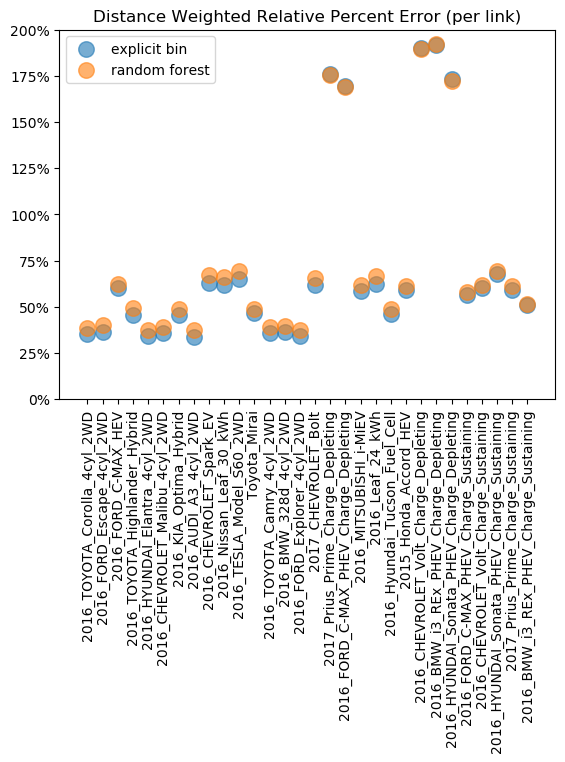
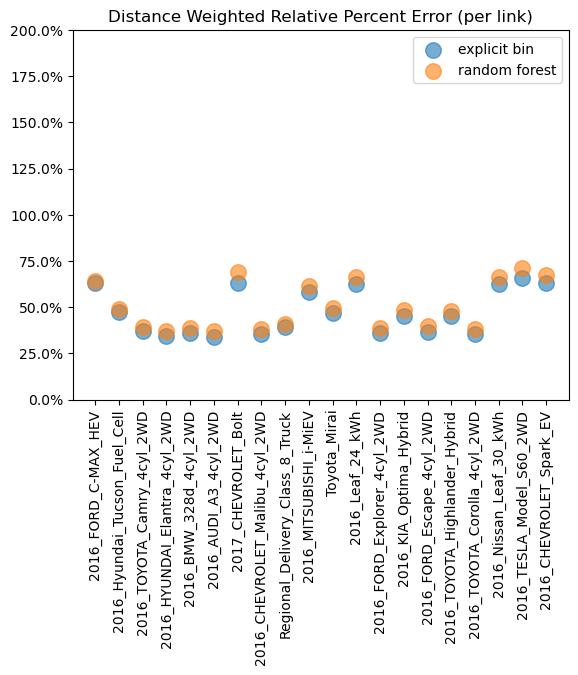
updated model_trainer and model_check for new batch training workflow

Changed region(s): [[0.0, 0.0, 0.9929, 0.9956]]

diff --git a/scripts/model_check.py b/scripts/model_check.py
@@ -5,56 +5,16 @@ import numpy as np
 import os
 import matplotlib.pyplot as plt
 
-import routee
+from powertrain.core.model import Model
+from pathlib import Path
 
-PATH_to_models = "../routee/trained_models/"
+PATH_to_models = "/projects/mbap/data/routee_results/2020_11_9/"
+PATH_to_models = Path(PATH_to_models)
 
+eb_model_list = [x for x in os.listdir(PATH_to_models) if x.endswith('ExplicitBin.json')]
+rf_model_list = [x for x in os.listdir(PATH_to_models) if x.endswith('RandomForest.json')]
 
-EV = [
-    '2016_CHEVROLET_Spark_EV',
-    '2016_MITSUBISHI_i-MiEV',
-    '2016_Nissan_Leaf_24_kWh',
-    '2016_Nissan_Leaf_30_kWh',
-    '2016_TESLA_Model_S60_2WD',
-    '2017_CHEVROLET_Bolt',
-]
-
-PHEV_CD = [
-    '2016_BMW_i3_REx_PHEV_Charge_Depleting',
-    '2016_CHEVROLET_Volt_Charge_Depleting',
-    '2016_FORD_C-MAX_PHEV_Charge_Depleting',
-    '2016_HYUNDAI_Sonata_PHEV_Charge_Depleting',
-    '2017_Prius_Prime_Charge_Depleting',
-]
-
-HEV = [
-    '2016_BMW_i3_REx_PHEV_Charge_Sustaining',
-    '2016_CHEVROLET_Volt_Charge_Sustaining',
-    '2016_FORD_C-MAX_PHEV_Charge_Sustaining',
-    '2016_HYUNDAI_Sonata_PHEV_Charge_Sustaining',
-    '2017_Prius_Prime_Charge_Sustaining',
-    '2015_Honda_Accord_HEV',
-    '2016_FORD_C-MAX_HEV',
-    '2016_KIA_Optima_Hybrid',
-    '2016_TOYOTA_Highlander_Hybrid',
-]
-
-CV = [
-    '2016_AUDI_A3_4cyl_2WD',
-    '2016_BMW_328d_4cyl_2WD',
-    '2016_CHEVROLET_Malibu_4cyl_2WD',
-    '2016_FORD_Escape_4cyl_2WD',
-    '2016_FORD_Explorer_4cyl_2WD',
-    '2016_HYUNDAI_Elantra_4cyl_2WD',
-    '2016_TOYOTA_Camry_4cyl_2WD',
-    '2016_TOYOTA_Corolla_4cyl_2WD'
-]
-
-
-eb_model_list = [x for x in os.listdir(PATH_to_models) if x.endswith('Explicit_Bin.pickle')]
-rf_model_list = [x for x in os.listdir(PATH_to_models) if x.endswith('Random_Forest.pickle')]
-
-root_list = [x.split('_Explicit_Bin')[0] for x in eb_model_list]
+root_list = [x.split('_ExplicitBin')[0] for x in eb_model_list]
 
 eb_model_error_dwrpe = []
 rf_model_error_dwrpe = []
@@ -63,13 +23,15 @@ eb_model_error_net = []
 rf_model_error_net = []
 
 for basename_i in root_list:
-    eb_model = routee.read_model(PATH_to_models+basename_i+'_Explicit_Bin.pickle')
-    eb_model_error_dwrpe.append(eb_model.errors['distance_weighted_relative_percent_difference'])
-    eb_model_error_net.append(eb_model.errors['net_error'])
+    json_file = PATH_to_models.joinpath(basename_i+'_ExplicitBin.json')
+    eb_model = Model.from_json(json_file)
+    eb_model_error_dwrpe.append(eb_model.metadata['errors']['distance_weighted_relative_percent_difference'])
+    eb_model_error_net.append(eb_model.metadata['errors']['net_error'])
     
-    rf_model = routee.read_model(PATH_to_models+basename_i+'_Random_Forest.pickle')
-    rf_model_error_dwrpe.append(rf_model.errors['distance_weighted_relative_percent_difference'])
-    rf_model_error_net.append(rf_model.errors['net_error'])
+    json_file = PATH_to_models.joinpath(basename_i+'_RandomForest.json')
+    rf_model = Model.from_json(json_file)
+    rf_model_error_dwrpe.append(rf_model.metadata['errors']['distance_weighted_relative_percent_difference'])
+    rf_model_error_net.append(rf_model.metadata['errors']['net_error'])
     
 
 fig, ax = plt.subplots()
@@ -78,7 +40,7 @@ plt.scatter(root_list, rf_model_error_dwrpe, s=125, alpha=0.6, label='random for
 plt.xticks(rotation='vertical')
 plt.ylim([0,2])
 vals = ax.get_yticks()
-ax.set_yticklabels(['{:,.0%}'.format(x) for x in vals])
+ax.set_yticklabels(['{:,.1%}'.format(x) for x in vals])
 plt.legend()
 plt.title('Distance Weighted Relative Percent Error (per link)')
 plt.savefig('plots/dwrpe.png', bbox_inches='tight')
@@ -90,7 +52,7 @@ plt.scatter(root_list, rf_model_error_net, s=125, alpha=0.6, label='random fores
 plt.xticks(rotation='vertical')
 # plt.ylim([0,2])
 vals = ax.get_yticks()
-ax.set_yticklabels(['{:,.0%}'.format(x) for x in vals])
+ax.set_yticklabels(['{:,.1%}'.format(x) for x in vals])
 plt.legend()
 plt.title('Net Error')
 plt.savefig('plots/net.png', bbox_inches='tight')

diff --git a/scripts/model_trainer.py b/scripts/model_trainer.py
@@ -15,6 +15,8 @@ from powertrain.utils.fs import root
 RAW_DATA_PATH = "/projects/mbap/data/fastsim_results/2020_11_9/FASTSim_py_veh_db_w_phevs/*.db"
 OUT_PATH = "/projects/mbap/data/routee_results/2020_11_9/"
 
+if not os.path.exists(OUT_PATH):
+    os.makedirs(OUT_PATH)
 
 def train_model(file):
     vehicle_name = os.path.splitext(os.path.basename(file))[0]
